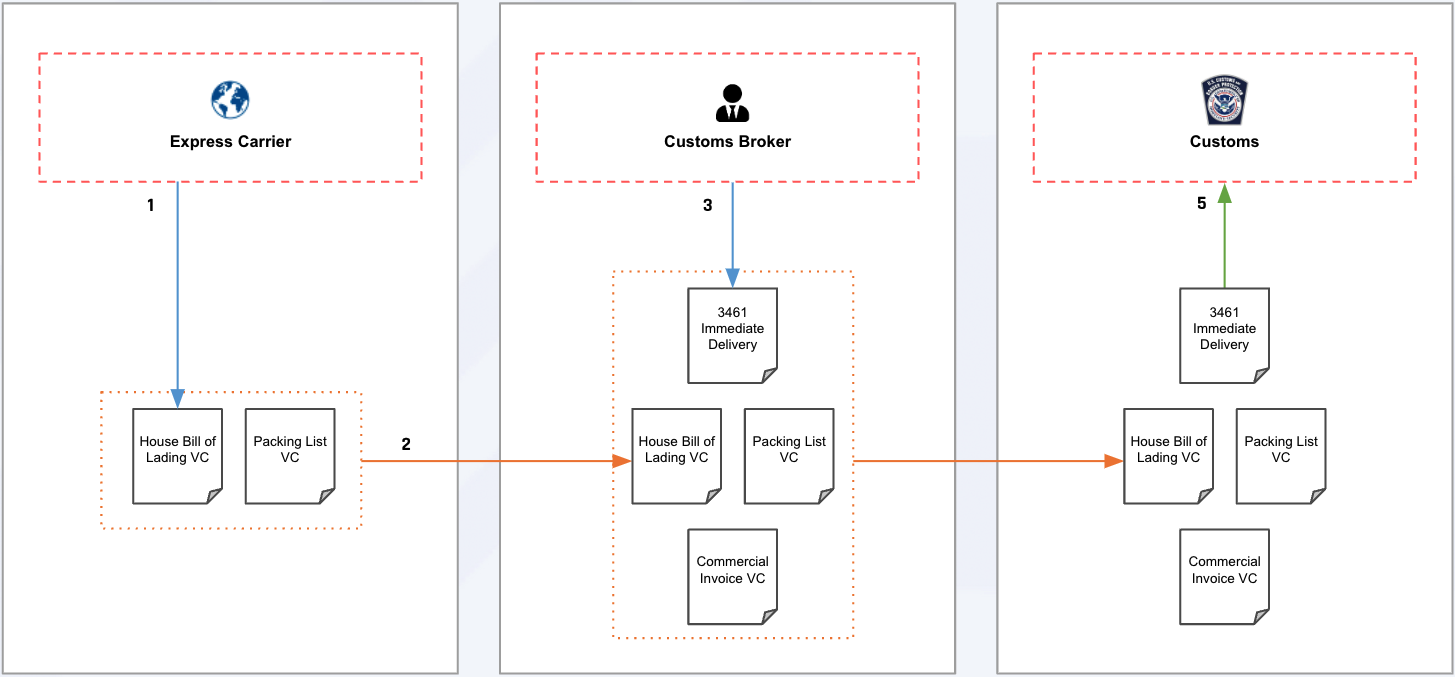
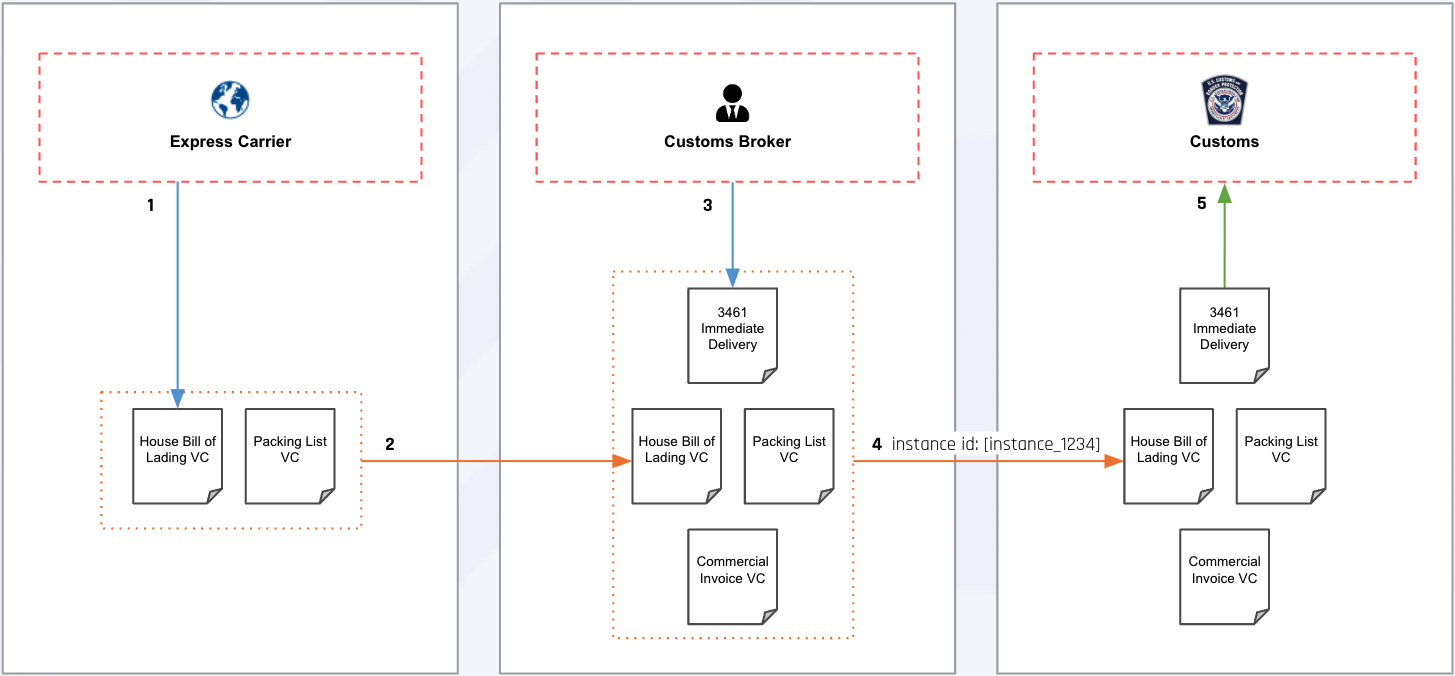
feat: correlate by instance id

diff --git a/docs/index.html b/docs/index.html
@@ -878,11 +878,11 @@
             <figcaption>Import Procedures Workflow</figcaption>
           </figure>
           <p>
-            The Customs Broker completes the importing procedures by issuing the 7501 Entry Summary (1), presenting it to Customs (2), associating it to the earlier submission with workflow instance id.
+            The Customs Broker completes the importing procedures by issuing the 7501 Entry Summary (1), presenting it to Customs (2), associating it to the earlier submission by correlating the workflow instance id ("instance_1234").
           </p>
           <p>
             Customs verifies the Entry Summary (3) and completes the importing assessment. 
-          </p>          
+          </p>
         </section>
       <section>
         <h5>Software Supply Chain</h5>
